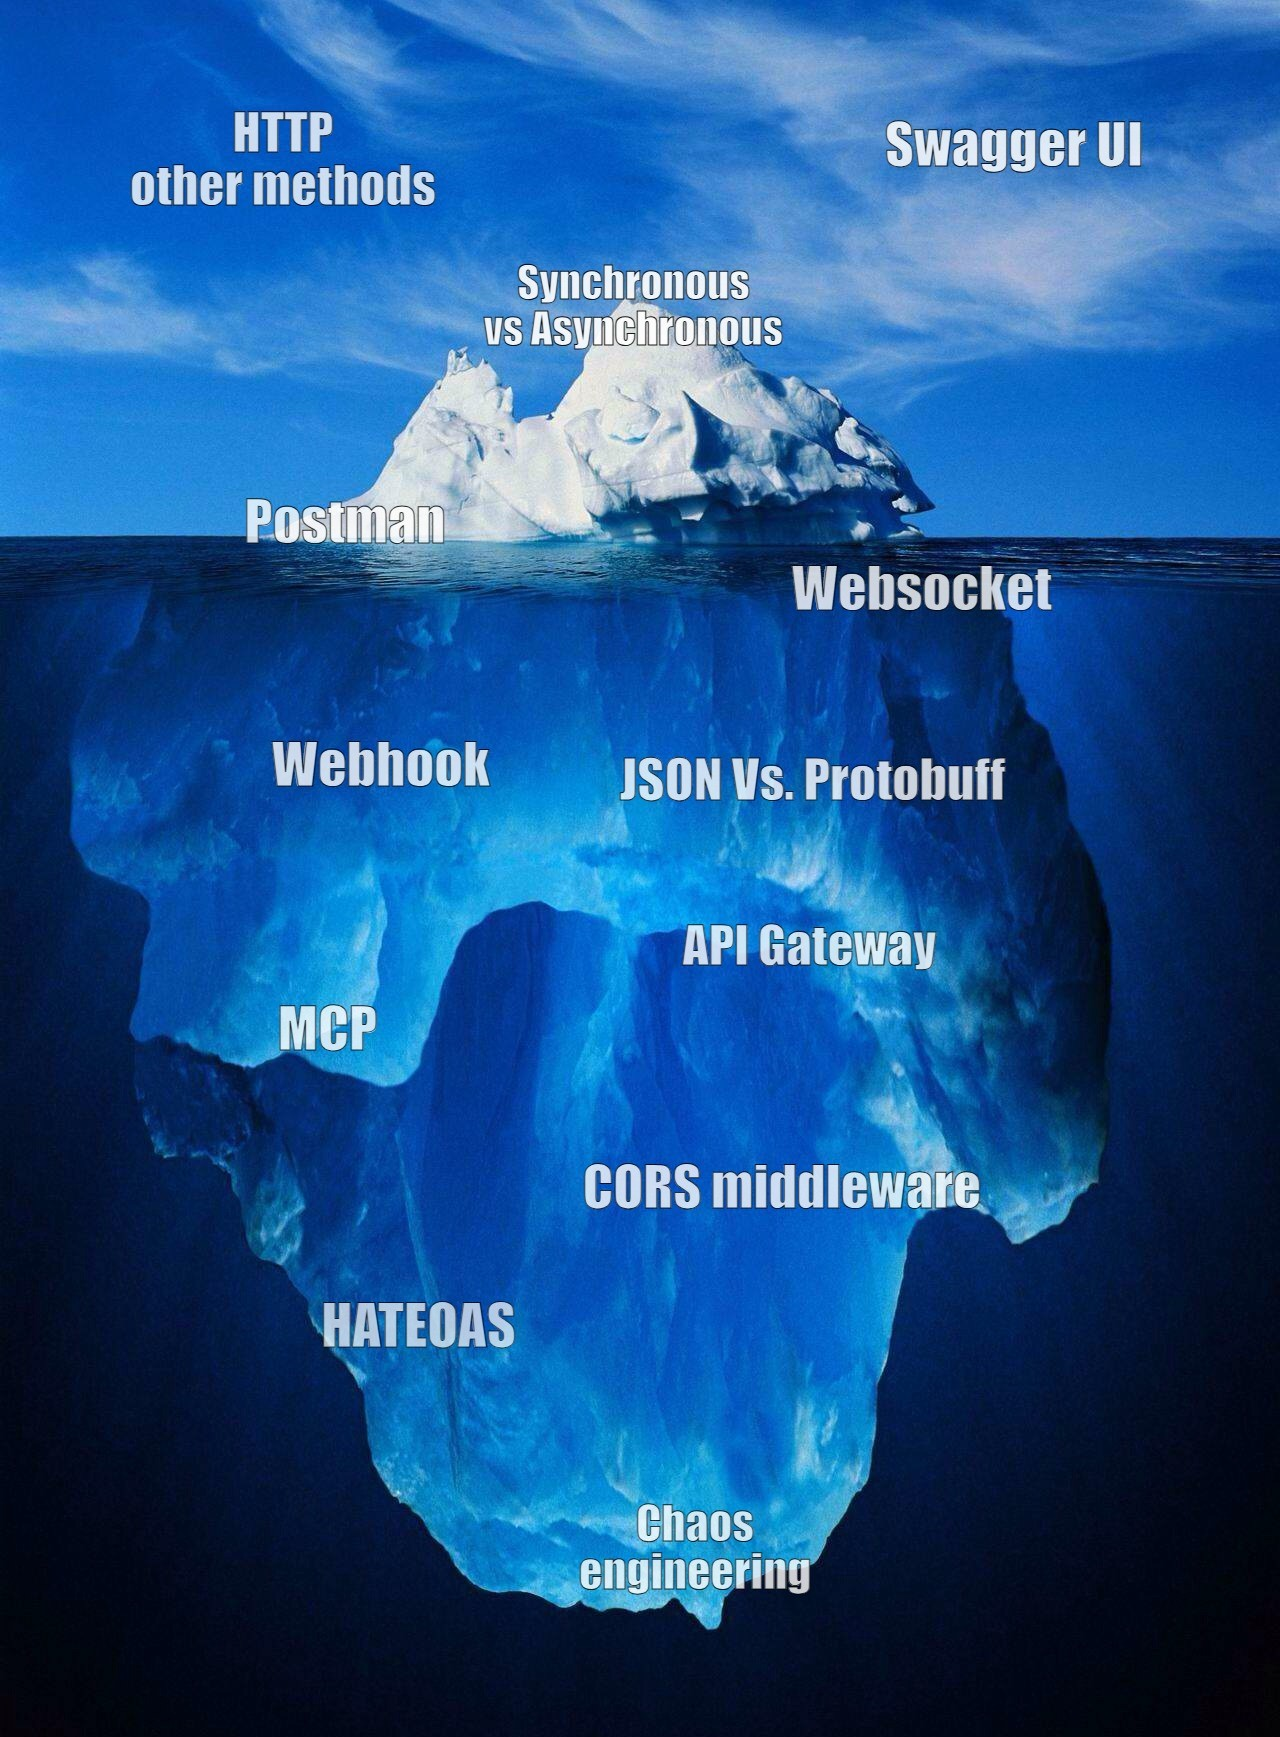
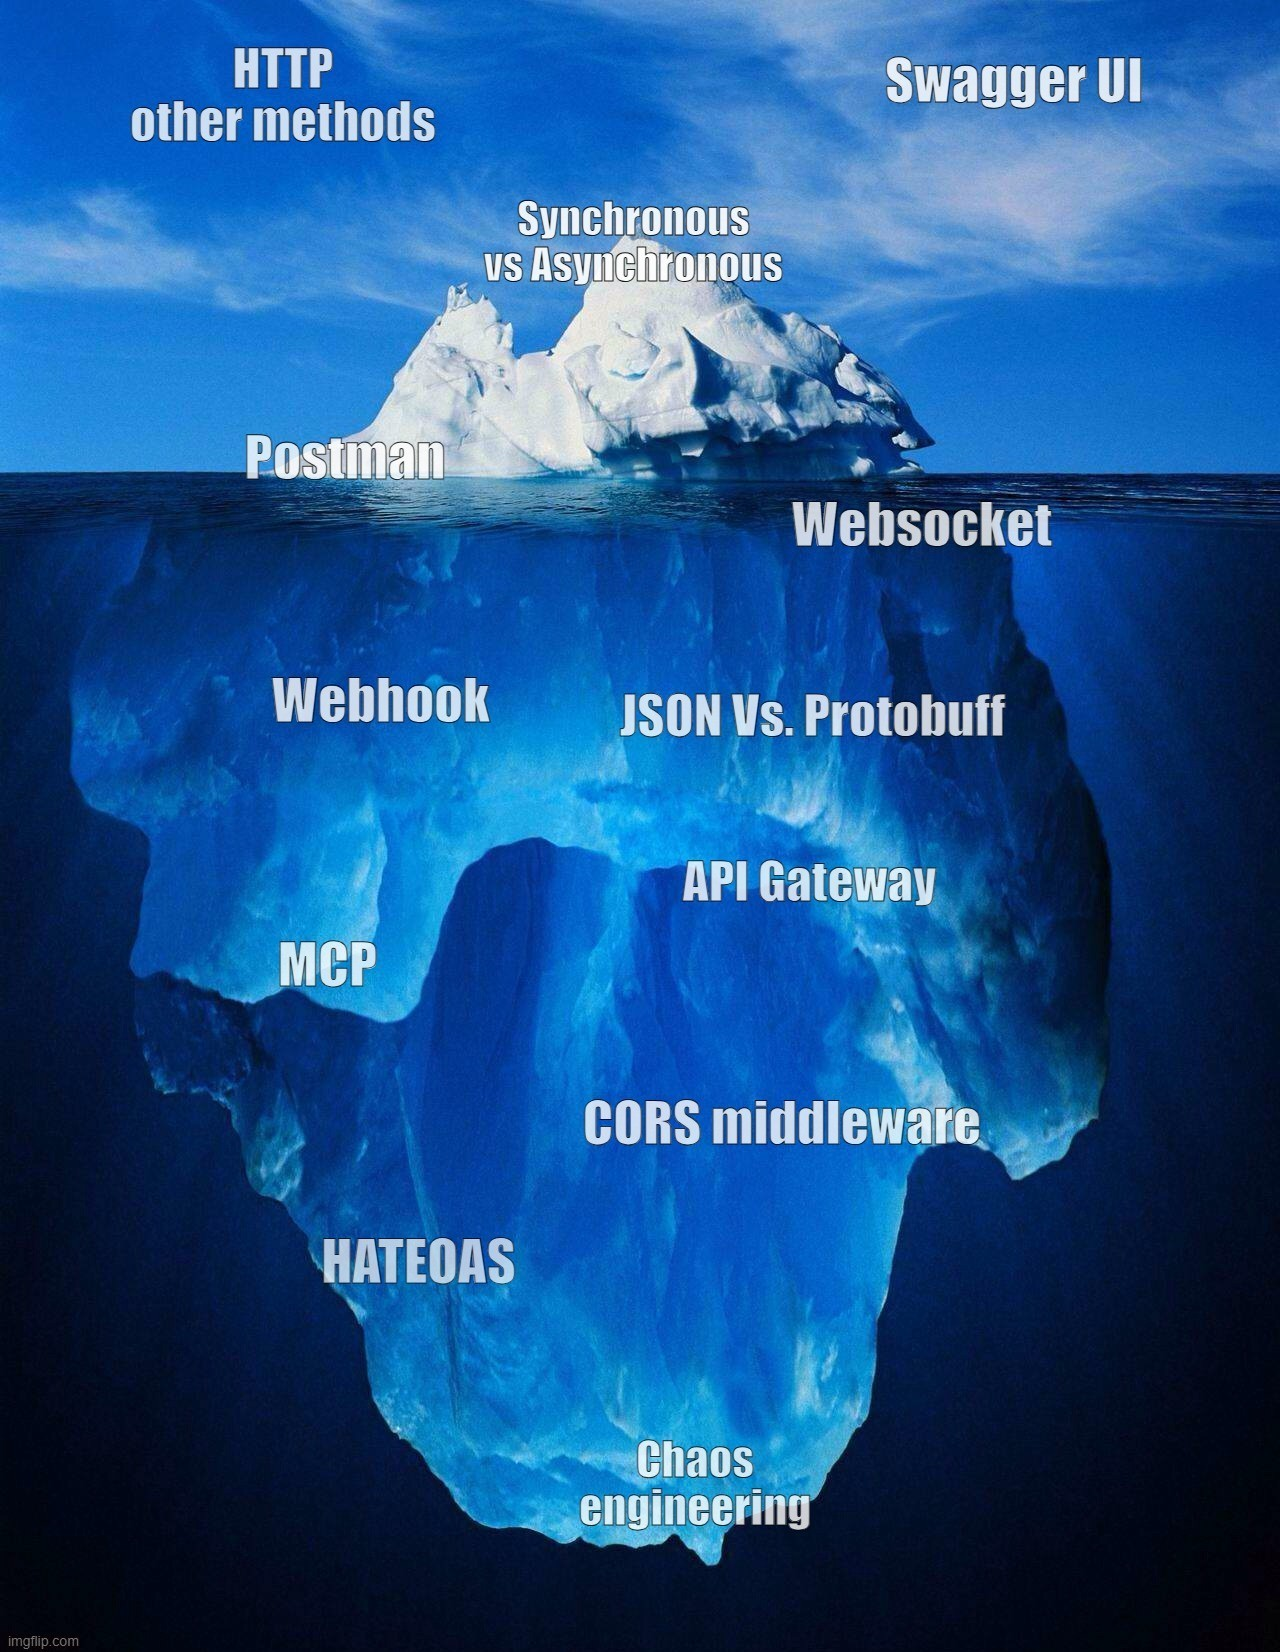
rockyyyy

diff --git a/frontend/css/style.css b/frontend/css/style.css
@@ -409,6 +409,34 @@ body.is-collapsed .toc-link__num { width: auto; font-size: 13px; }
   height: calc(var(--title-size) * 1.25);
 }
 
+/* A photograph beside a title rather than a flat drawing, and round.
+   Both departures from the rule above have the same cause: a photo
+   carries detail a diagram does not, so it needs the extra size to read
+   at all, and it comes with a ground the drawings do not have. Square
+   box, because a circle wants one — the source is 500x535 and cover
+   trims the difference off the top and bottom.
+
+   The soft edge is a mask, not a fill. The cut-out sits on white and so
+   does the slide, so a hard rim would draw a circle the picture does not
+   have, where a feathered one lets it sit on the page instead. Alpha in
+   a mask is not alpha in a colour: the palette's solid-fill rule governs
+   the five family hues and nothing here touches them. -webkit- first for
+   the Chrome versions that still want it; a browser honouring neither
+   falls back to the square, which is a fine place to land.
+
+   The row is taller than a bare title at this size, which on other
+   slides would push everything below it down. Here it does not: this
+   slide's figure is centred with auto margins, so it simply recentres
+   in the space left. Dial the 1.6 if the crab wants more or less room. */
+.slide__title-art--circle {
+  width: calc(var(--title-size) * 1.6);
+  height: calc(var(--title-size) * 1.6);
+  border-radius: 50%;
+  object-fit: cover;
+  -webkit-mask-image: radial-gradient(circle, #000 58%, transparent 76%);
+  mask-image: radial-gradient(circle, #000 58%, transparent 76%);
+}
+
 /* --- "1/2" beside a title whose slide runs over two. A chip in the
        slide's own hue rather than more heading: it is not part of the
        sentence the title makes, it says where in the pair you are. The

diff --git a/frontend/index.html b/frontend/index.html
@@ -119,10 +119,14 @@
       </div>
     </section>
 
-    <!-- ---------- 4. Kesako? ---------- -->
+    <!-- ---------- 4. What's API, Question? ---------- -->
     <section class="slide slide--concepts" data-family="foundations">
       <div class="slide__inner">
-        <h2 class="slide__title">API, Kesako?</h2>
+        <div class="slide__titlerow">
+          <h2 class="slide__title">What's API, Question?</h2>
+          <!-- Decorative, and a joke the slide never refers to. -->
+          <img class="slide__title-art slide__title-art--circle" src="assets/rocky.jpg" alt="">
+        </div>
         <!-- The cards this slide used to build in markup, supplied as one
              drawing instead: the layout wanted arrows and branch lines that
              HTML makes expensive and a drawing makes free. Title still lives
@@ -871,7 +875,7 @@ a GET asks for data, it sends none</pre>
             <article class="carousel__card carousel__card--1">
               <div class="carousel__text">
                 <h3 class="carousel__name">Idempotency</h3>
-                <blockquote class="carousel__quote">Ask twice, get the same answer &mdash; and leave the world in the same state.</blockquote>
+                <blockquote class="carousel__quote">Ask twice, get the same answer, it's simply fantastic! &mdash; &ldquo;Say that again?&rdquo;.</blockquote>
               </div>
               <figure class="figure figure--centered">
                 <img class="figure__img" src="assets/idempotency.png" alt="A client and a server on a sequence diagram. The client sends GET /users=123 and the server returns the object; the client repeats the very same request and the server still returns the same user 123.">
